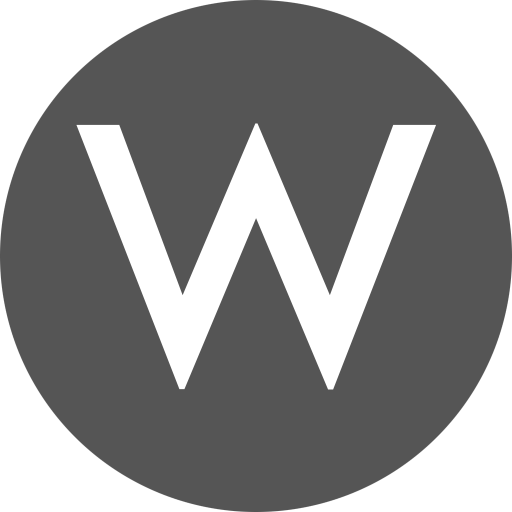
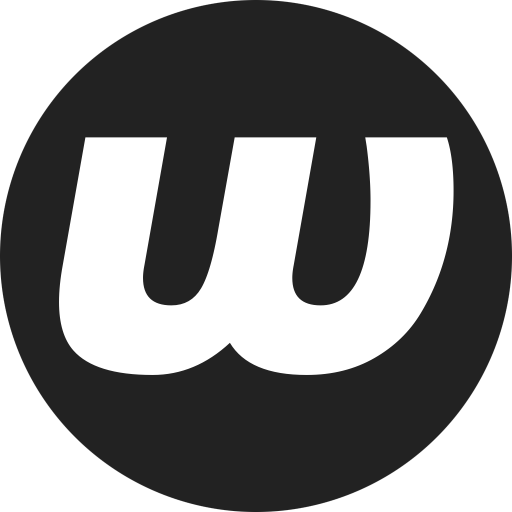
flavicon change

diff --git a/public/index.html b/public/index.html
@@ -2,7 +2,7 @@
 <html lang="en">
   <head>
     <meta charset="utf-8" />
-    <link rel="icon" href="%PUBLIC_URL%/favicon.ico" />
+    <link rel="icon" href="/favicon.ico" />
     <meta name="viewport" content="width=device-width, initial-scale=1" />
     <meta name="theme-color" content="#000000" />
     <meta
